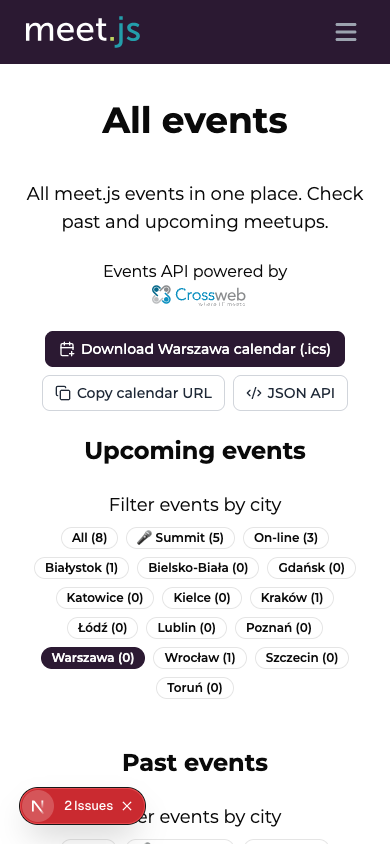
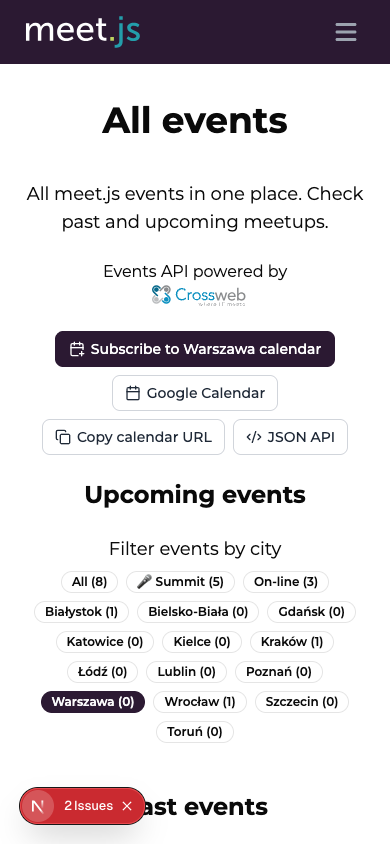
feat(events): switch calendar links to live webcal & Google Calendar subscriptions

Changed region(s): [[0.0923, 0.3697, 0.8923, 1.0]]

diff --git a/src/components/EventsFeedLinks.tsx b/src/components/EventsFeedLinks.tsx
@@ -1,9 +1,8 @@
 'use client';
 
 import { useEffect, useId, useRef, useState } from 'react';
-import { CalendarPlus, Check, Code2, Copy } from 'lucide-react';
+import { Calendar, CalendarPlus, Check, Code2, Copy } from 'lucide-react';
 import { useTranslate } from '@tolgee/react';
-import { getIcsFilename } from '@/utils/eventsFeed';
 
 interface EventsFeedLinksProps {
   city?: string | null;
@@ -26,14 +25,14 @@ export const EventsFeedLinks = ({ city, siteUrl }: EventsFeedLinksProps) => {
   const icsPath = `/api/events.ics${query}`;
   const jsonPath = `/api/events${query}`;
 
-  const downloadFilename = getIcsFilename(city);
-
   const baseOrigin =
     siteUrl?.replace(/\/$/, '') ||
     (typeof window !== 'undefined'
       ? window.location.origin
       : 'https://meetjs.pl');
   const subscribeUrl = `${baseOrigin}${icsPath}`;
+  const webcalUrl = subscribeUrl.replace(/^https?:\/\//, 'webcal://');
+  const googleCalendarUrl = `https://calendar.google.com/calendar/r?cid=${encodeURIComponent(webcalUrl)}`;
 
   useEffect(() => {
     const button = buttonRef.current;
@@ -105,9 +104,9 @@ export const EventsFeedLinks = ({ city, siteUrl }: EventsFeedLinksProps) => {
     };
   }, [t]);
 
-  const icsLabel = city
-    ? t('events_page.feeds.download_city_ics', { city })
-    : t('events_page.feeds.download_ics');
+  const subscribeLabel = city
+    ? t('events_page.feeds.subscribe_city_calendar', { city })
+    : t('events_page.feeds.subscribe_calendar');
 
   const invokerAttrs = {
     command: '--copy',
@@ -117,12 +116,21 @@ export const EventsFeedLinks = ({ city, siteUrl }: EventsFeedLinksProps) => {
   return (
     <div className="flex flex-wrap items-center justify-center gap-2 text-sm">
       <a
-        href={icsPath}
-        download={downloadFilename}
+        href={webcalUrl}
         className="inline-flex min-h-9 items-center gap-1.5 rounded-lg bg-purple px-3.5 py-1.5 font-medium text-white transition-colors hover:bg-purple/90 focus-visible:outline focus-visible:outline-2 focus-visible:outline-offset-2 focus-visible:outline-purple"
       >
         <CalendarPlus aria-hidden="true" className="h-4 w-4 shrink-0" />
-        <span>{icsLabel}</span>
+        <span>{subscribeLabel}</span>
+      </a>
+
+      <a
+        href={googleCalendarUrl}
+        target="_blank"
+        rel="noopener"
+        className="inline-flex min-h-9 items-center gap-1.5 rounded-lg border border-gray-300 bg-white px-3 py-1.5 font-medium text-gray-800 transition-colors hover:border-purple hover:bg-gray-50 focus-visible:outline focus-visible:outline-2 focus-visible:outline-offset-2 focus-visible:outline-purple"
+      >
+        <Calendar aria-hidden="true" className="h-4 w-4 shrink-0" />
+        <span>{t('events_page.feeds.google_calendar')}</span>
       </a>
 
       <span className="relative inline-flex items-center gap-1.5">

diff --git a/src/components/EventsFeedLinks.test.tsx b/src/components/EventsFeedLinks.test.tsx
@@ -23,14 +23,25 @@ describe('EventsFeedLinks', () => {
     vi.restoreAllMocks();
   });
 
-  it('renders global .ics download and JSON API links when no city is selected', () => {
+  it('renders global webcal subscription, Google Calendar, and JSON API links when no city is selected', () => {
     render(<EventsFeedLinks siteUrl="https://meetjs.pl" />);
 
-    const icsLink = screen.getByRole('link', {
-      name: 'events_page.feeds.download_ics',
+    const subscribeLink = screen.getByRole('link', {
+      name: 'events_page.feeds.subscribe_calendar',
     });
-    expect(icsLink).toHaveAttribute('href', '/api/events.ics');
-    expect(icsLink).toHaveAttribute('download', 'meetjs-events.ics');
+    expect(subscribeLink).toHaveAttribute(
+      'href',
+      'webcal://meetjs.pl/api/events.ics',
+    );
+    expect(subscribeLink).not.toHaveAttribute('download');
+
+    const googleLink = screen.getByRole('link', {
+      name: 'events_page.feeds.google_calendar',
+    });
+    expect(googleLink).toHaveAttribute(
+      'href',
+      `https://calendar.google.com/calendar/r?cid=${encodeURIComponent('webcal://meetjs.pl/api/events.ics')}`,
+    );
 
     const jsonLink = screen.getByRole('link', {
       name: 'events_page.feeds.json_api',
@@ -38,17 +49,25 @@ describe('EventsFeedLinks', () => {
     expect(jsonLink).toHaveAttribute('href', '/api/events');
   });
 
-  it('scopes download, JSON API, and filename to the selected city', () => {
+  it('scopes webcal subscription, Google Calendar, and JSON API links to the selected city', () => {
     render(<EventsFeedLinks city="Wrocław" siteUrl="https://meetjs.pl" />);
 
-    const icsLink = screen.getByRole('link', {
-      name: /events_page\.feeds\.download_city_ics/,
+    const expectedWebcal =
+      'webcal://meetjs.pl/api/events.ics?city=Wroc%C5%82aw';
+
+    const subscribeLink = screen.getByRole('link', {
+      name: /events_page\.feeds\.subscribe_city_calendar/,
     });
-    expect(icsLink).toHaveAttribute(
+    expect(subscribeLink).toHaveAttribute('href', expectedWebcal);
+    expect(subscribeLink).not.toHaveAttribute('download');
+
+    const googleLink = screen.getByRole('link', {
+      name: 'events_page.feeds.google_calendar',
+    });
+    expect(googleLink).toHaveAttribute(
       'href',
-      '/api/events.ics?city=Wroc%C5%82aw',
+      `https://calendar.google.com/calendar/r?cid=${encodeURIComponent(expectedWebcal)}`,
     );
-    expect(icsLink).toHaveAttribute('download', 'meetjs-wroclaw-events.ics');
 
     const jsonLink = screen.getByRole('link', {
       name: 'events_page.feeds.json_api',

diff --git a/src/lib/ical.test.ts b/src/lib/ical.test.ts
@@ -45,6 +45,8 @@ describe('ical helpers', () => {
     expect(ics.endsWith('\r\n')).toBe(true);
     expect(ics).toContain('BEGIN:VCALENDAR\r\n');
     expect(ics).toContain('VERSION:2.0\r\n');
+    expect(ics).toContain('REFRESH-INTERVAL;VALUE=DURATION:PT12H\r\n');
+    expect(ics).toContain('X-PUBLISHED-TTL:PT12H\r\n');
     expect(ics).toContain('UID:event-60579@meetjs.pl\r\n');
     expect(ics).toContain('DTSTAMP:20261121T180000Z\r\n');
     expect(ics).toContain('DTSTART;TZID=Europe/Warsaw:20261210T173000\r\n');

diff --git a/src/lib/ical.ts b/src/lib/ical.ts
@@ -123,6 +123,8 @@ export const buildEventsIcal = (
     'METHOD:PUBLISH',
     `X-WR-CALNAME:${escapeIcalText(calendarName)}`,
     `X-WR-TIMEZONE:${CALENDAR_TIMEZONE}`,
+    'REFRESH-INTERVAL;VALUE=DURATION:PT12H',
+    'X-PUBLISHED-TTL:PT12H',
   ];
 
   for (const event of events) {
